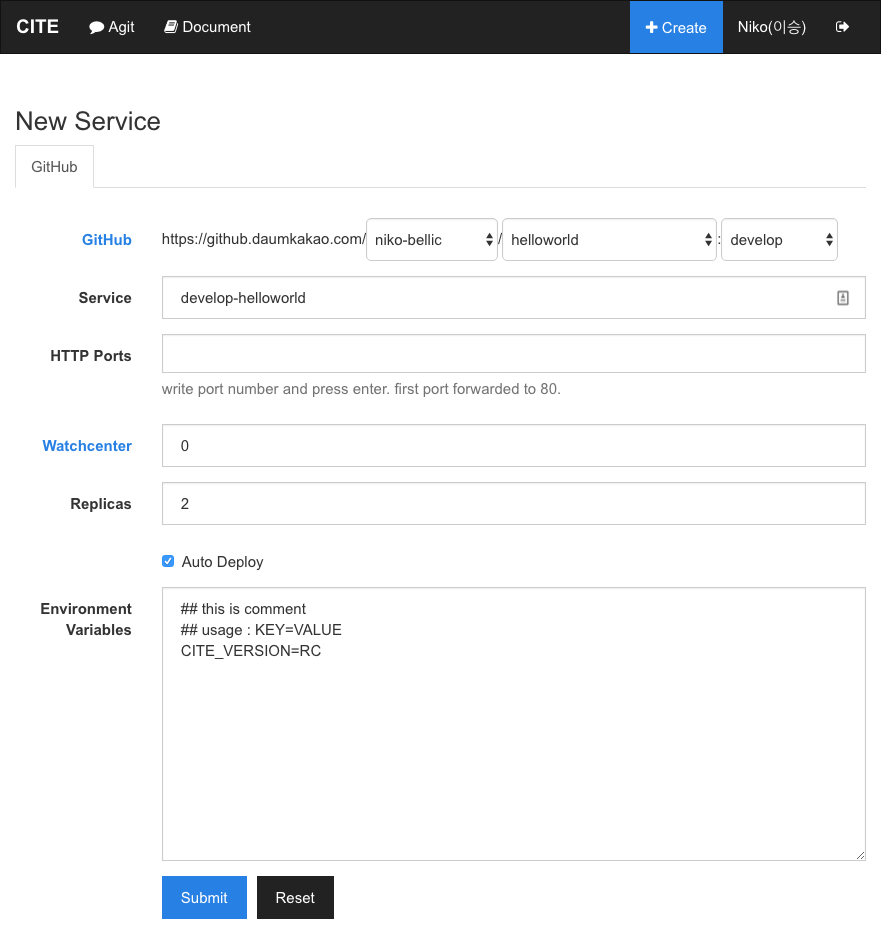
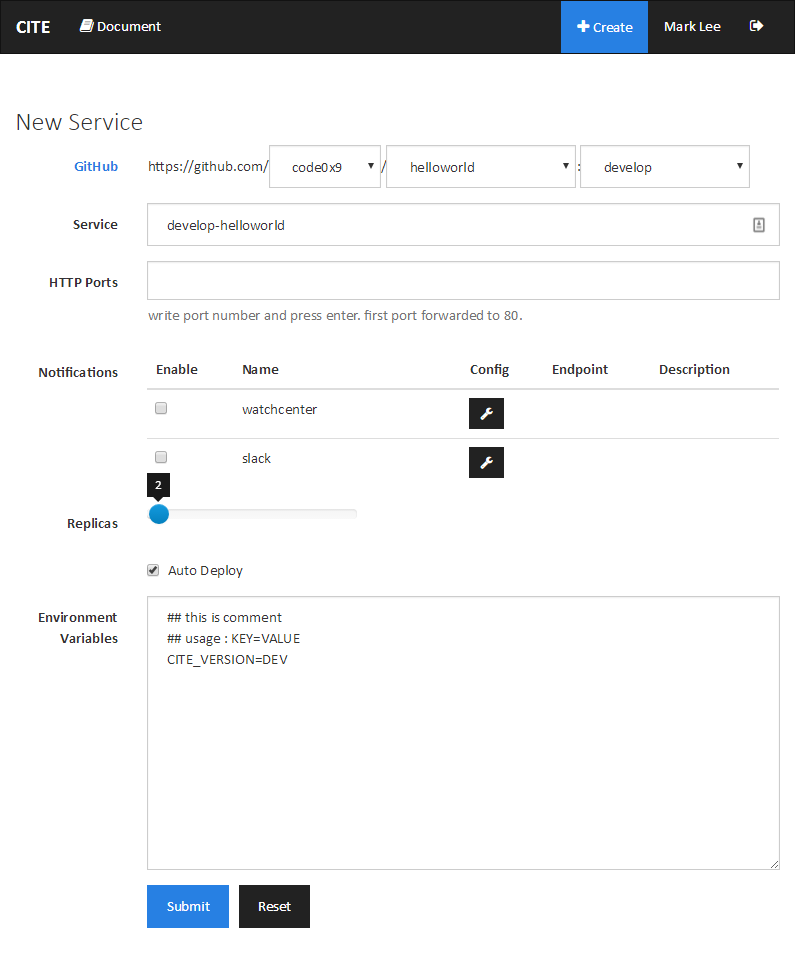
updating document

diff --git a/usage/index.html b/usage/index.html
@@ -419,100 +419,62 @@
 
 			
 
-<h2 id="prerequisites">Prerequisites</h2>
-
-<ul>
-<li>Dockerfile : 서비스 repository의 root directory에 위치.
-
-<ul>
-<li>base image는 docker-alpine(<a href="http://gliderlabs.viewdocs.io/docker-alpine/">http://gliderlabs.viewdocs.io/docker-alpine/</a>) 권장</li>
-</ul></li>
-</ul>
-
-<h2 id="gui-cite">GUI: cite</h2>
-
-<h3 id="생성">생성</h3>
+<h2 id="create">Create</h2>
 
 <ol>
-<li>cite web(<a href="http://cite.d.9rum.cc/">http://cite.d.9rum.cc/</a>) 접속</li>
-<li>최초 접속시 cite 권한 부여
+<li>open cite web</li>
+<li>authorize cite
 <img src="http://tech.kakao.com/citedocs/images/usage/cite_auth.png" alt="Auth" /></li>
-<li>서비스 생성
+<li>create service
 <img src="http://tech.kakao.com/citedocs/images/usage/cite_create.png" alt="Create" />
 <img src="http://tech.kakao.com/citedocs/images/usage/cite_create_form.png" alt="Create Form" />
 
 <ul>
-<li>GitHub : github 프로젝트 위치, 브랜치</li>
-<li>Service : 서비스명. 서비스 생성시 서비스명으로 도메인 생성</li>
-<li>HTTP Ports : container의 http/https서비스 listen port. 첫번째 포트는 80으로 redirect됨</li>
-<li>Watchcenter : 빌드/배포 이벤트를 받을 watchcenter group id</li>
-<li>Replicas : container 인스턴스 개수</li>
-<li>Auto Deploy : 자동 배포 On/Off</li>
-<li>Environment Variables : 구동시 환경변수. #으로 시작하는 줄은 주석으로 무시됨</li>
+<li>GitHub : github repository and branch</li>
+<li>Service : name of kubernetes service</li>
+<li>HTTP Ports : http/https service listen port. first port redirects to 80 and 443.</li>
+<li>Notifications : notification endpoints for build/deploy event.</li>
+<li>Replicas : number of container instances</li>
+<li>Auto Deploy : enable auto deploy</li>
+<li>Environment Variables : container environment variables. lines start with # is ignored.
+<img src="http://tech.kakao.com/citedocs/images/usage/cite_notification_slack.png" alt="Notification" /></li>
 </ul></li>
 </ol>
 
-<h2 id="서비스">서비스</h2>
+<h2 id="service">Service</h2>
 
-<ol>
-<li>GitHub Commits 목록 중 배포할 버전 옆의 Deploy버튼 클릭. 빌드되어 있지 않은 경우 Build버튼 클릭
-<img src="http://tech.kakao.com/citedocs/images/usage/cite_service.png" alt="Service" /></li>
-<li>buildbot에서 빌드 로그 조회 및 필요시 다시 빌드 수행
-<img src="http://tech.kakao.com/citedocs/images/usage/cite_build_1.png" alt="Build" />
-<img src="http://tech.kakao.com/citedocs/images/usage/cite_build_2.png" alt="Build" /></li>
-<li>kibana에서 배포 로그 및 런타임 로그 조회
-<img src="http://tech.kakao.com/citedocs/images/usage/cite_deploy.png" alt="Deploy" /></li>
-<li>배포에 성공하면 Deploy버튼이 Redeploy버튼으로 변경됨
+<h3 id="service-metadata">Service Metadata</h3>
 
-<ol>
-<li>환경변수 갱신 또는 replica 개수 변경시 재배포 목적</li>
-</ol></li>
-</ol>
+<p><img src="http://tech.kakao.com/citedocs/images/usage/cite_service_meta.png" alt="Service Meta" /></p>
 
-<h2 id="모니터링">모니터링</h2>
+<h3 id="service-1">Service</h3>
 
-<p>influxDB의 clustering기능이 오픈소스 버전에서 제외됨에 따라(<a href="https://influxdata.com/blog/update-on-influxdb-clustering-high-availability-and-monetization/">https://influxdata.com/blog/update-on-influxdb-clustering-high-availability-and-monetization/</a>) 별도의 Time Based Database도입 예정</p>
+<p><img src="http://tech.kakao.com/citedocs/images/usage/cite_service.png" alt="Service" /></p>
 
-<!--
-![Monitor](/images/usage/cite_log_metric.png)
-* 로그 : ElasticSearch기반. 24시간 유지
-![Log](/images/usage/cite_log.png)
-* 상태 : InfluxDB기반.
-![Metric](/images/usage/cite_metric.png)
--->
+<h3 id="github-commits">GitHub Commits</h3>
 
-<h2 id="cli-kubectl">CLI: kubectl</h2>
+<p><img src="http://tech.kakao.com/citedocs/images/usage/github_commits.png" alt="Github Commits" /></p>
 
-<ol>
-<li><p>kubectl설치</p>
+<h3 id="github-deployments">GitHub Deployments</h3>
 
-<pre><code>brew update
-brew install kubernetes-cli
-</code></pre></li>
+<p><img src="http://tech.kakao.com/citedocs/images/usage/github_deployments.png" alt="Github Deployments" /></p>
 
-<li><p>citeui(<a href="http://cite.d.9rum.cc/">http://cite.d.9rum.cc/</a>) 에서 프로젝트 생성</p></li>
+<h2 id="build">Build</h2>
 
-<li><p>클러스터, 컨텍스트, 인증 토큰 설정</p>
+<p><img src="http://tech.kakao.com/citedocs/images/usage/cite_build_1.png" alt="Build" />
+<img src="http://tech.kakao.com/citedocs/images/usage/cite_build_2.png" alt="Build" /></p>
 
-<pre><code>kubectl config set-cluster cite-alpha-cluster --server=http://k8s.d.9rum.cc:8080
-kubectl config set-context cite-alpha-context --cluster=cite-alpha-cluster --namespace=default --user=niko-bellic
-kubectl config use-context cite-alpha-context
-kubectl config set-credentials niko-bellic --token=XXXXXX
-</code></pre>
+<h2 id="log">Log</h2>
 
-<ul>
-<li><a href="http://cite.d.9rum.cc/settings/profile">http://cite.d.9rum.cc/settings/profile</a> 참조</li>
-</ul></li>
+<p><img src="http://tech.kakao.com/citedocs/images/usage/cite_deploy.png" alt="Deploy" /></p>
 
-<li><p>kubectl로 인스턴스 제어</p>
+<h2 id="monitor">Monitor</h2>
 
-<ul>
-<li>인스턴스 개수 조절</li>
-</ul>
+<p><img src="http://tech.kakao.com/citedocs/images/usage/grafana.png" alt="Monitor" /></p>
 
-<pre><code>kubectl scale --replicas={NUM} replicationcontrollers {replicationcontrollers name}
-</code></pre></li>
-</ol>
+<h2 id="log-1">Log</h2>
+
+<p><img src="http://tech.kakao.com/citedocs/images/usage/cite_log.png" alt="Log" /></p>
 
 
 			<aside class="copyright" role="note">
